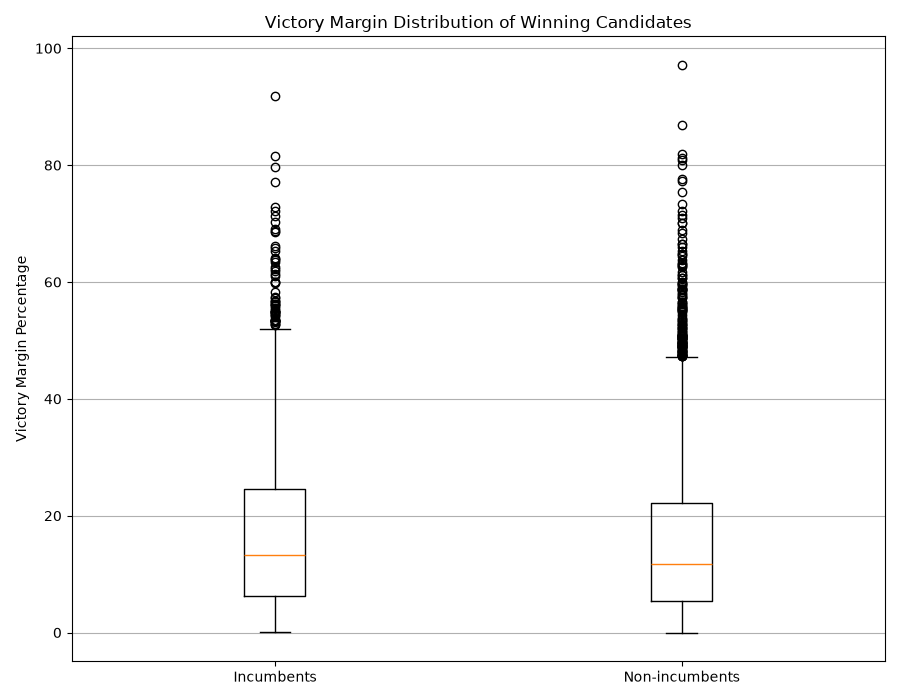
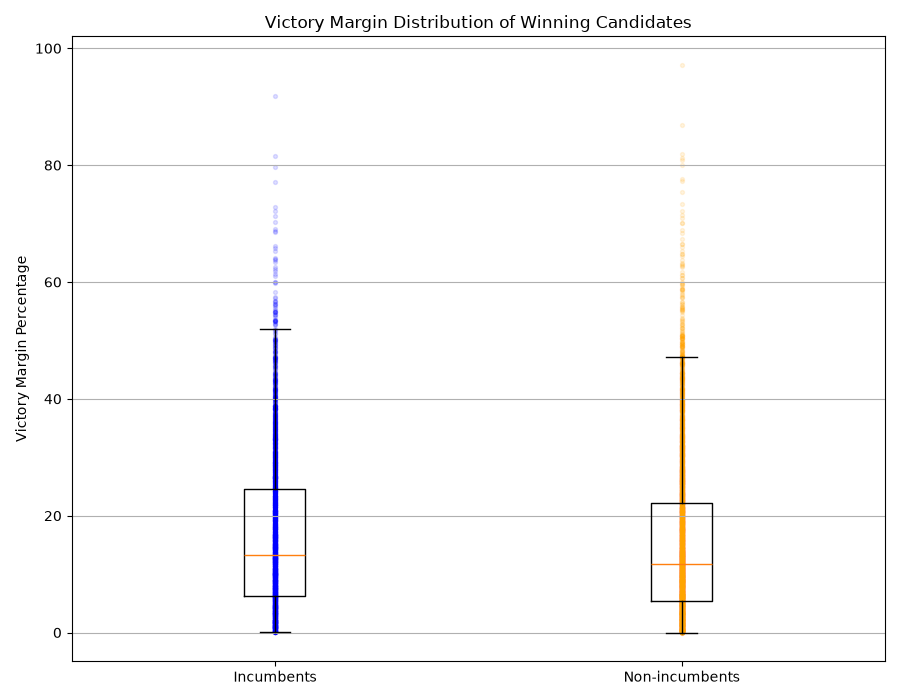
fixed box plots

diff --git a/scripts/victory-margin.py b/scripts/victory-margin.py
@@ -98,6 +98,7 @@ plt.xticks(positions, labels, rotation=45)
 plt.title("Victory Margin Distribution of Winning Candidates")
 plt.xlabel("Victory Margin Percentage Bin")
 plt.ylabel("Number of Winners")
+plt.grid(axis="y")
 plt.legend()
 plt.tight_layout()
 
@@ -113,7 +114,24 @@ plt.boxplot(
     [
         incumbents["margin_percentage"],
         non_incumbents["margin_percentage"]
-    ]
+    ],
+    showfliers=False
+)
+
+plt.scatter(
+    [1] * len(incumbents),
+    incumbents["margin_percentage"],
+    color="blue",
+    alpha=0.12,
+    s=8
+)
+
+plt.scatter(
+    [2] * len(non_incumbents),
+    non_incumbents["margin_percentage"],
+    color="orange",
+    alpha=0.12,
+    s=8
 )
 
 plt.xticks([1, 2], ["Incumbents", "Non-incumbents"])
